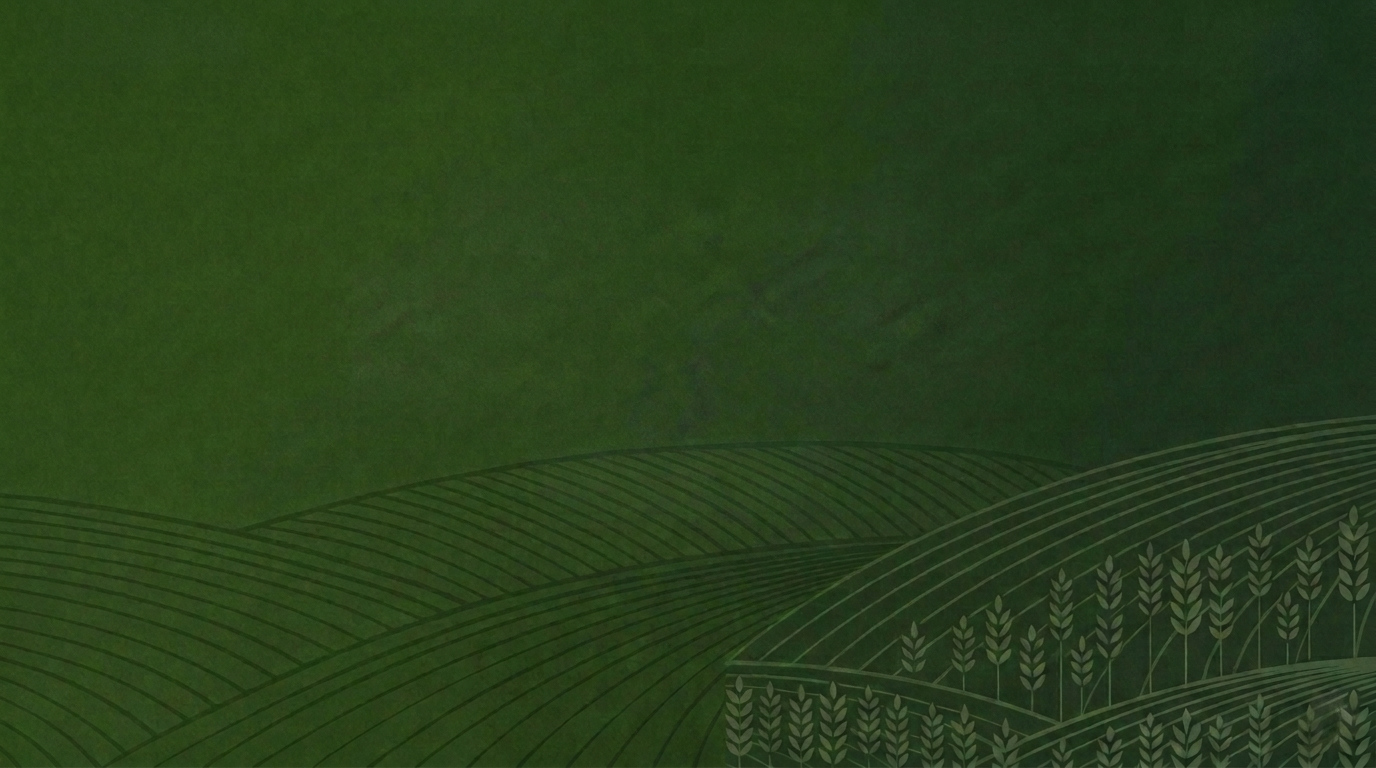
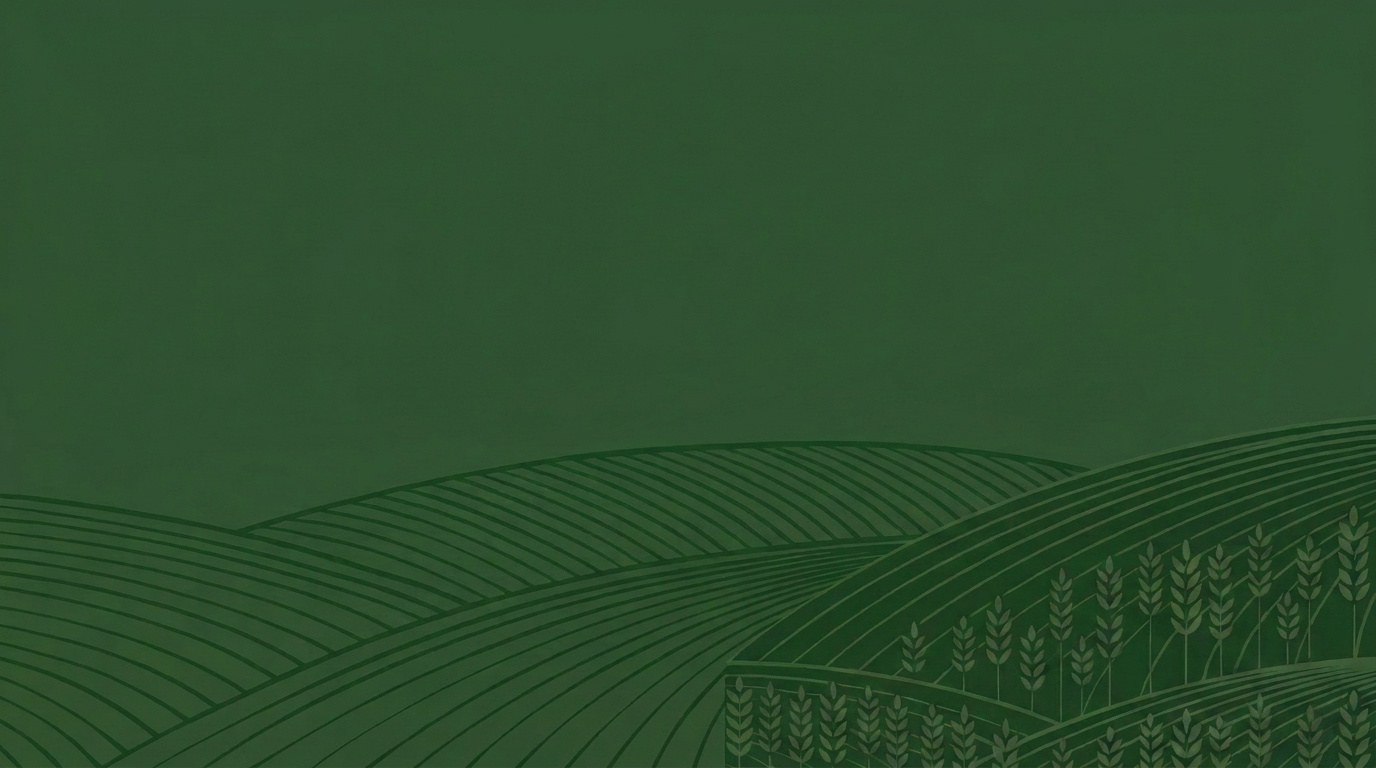
feat: replace container-based scroll with global hook and implement Framer Motion layout animations for the navbar

diff --git a/src/components/Temp.tsx b/src/components/Temp.tsx
@@ -37,16 +37,15 @@ export default function Landing() {
   const [sedeActiva, setSedeActiva] = useState(0);
 
   const [isScrolled, setIsScrolled] = useState(false);
-  const scrollRef = useRef<HTMLDivElement>(null);
   const serviciosRef = useRef<HTMLElement>(null);
 
-  const { scrollY } = useScroll({ container: scrollRef });
+  const { scrollY } = useScroll();
+
   useMotionValueEvent(scrollY, "change", (latest) => {
     setIsScrolled(latest > 50);
   });
 
   const { scrollYProgress: srvProgress } = useScroll({
-    container: scrollRef,
     target: serviciosRef,
     offset: ["start center", "end center"]
   });
@@ -62,39 +61,75 @@ export default function Landing() {
   const heroOpacity = useTransform(scrollY, [0, 500], [1, 0.3]);
   const watermarkOpacity = useTransform(scrollY, [80, 350], [0, 0.12]);
 
-  return (
-    <div ref={scrollRef} className="bg-black text-white font-['Inter',system-ui,sans-serif] overflow-x-hidden">
+  // Transición unificada para todo el navbar
+  const navTransition = { duration: 0.6, ease: [0.22, 1, 0.36, 1] };
 
-      {/* ── NAVBAR ── */}
+  return (
+    <div className="bg-black text-white font-['Inter',system-ui,sans-serif] overflow-x-hidden">
+
+      {/* ── NAVBAR (100% Animado por Framer Motion) ── */}
       <motion.header
-        className={`fixed z-50 transition-all duration-500 ${isScrolled
-          ? 'top-4 left-4 right-4 bg-black/20 backdrop-blur-md rounded-2xl shadow-glass'
-          : 'top-0 left-0 right-0 bg-transparent rounded-none'
-          }`}
-        initial={{ y: -80 }}
-        animate={{ y: 0 }}
-        transition={{ duration: 0.6, ease: [0.22, 1, 0.36, 1] }}
+        className="fixed z-[100] left-0 right-0 mx-auto border"
+        initial={{ y: -80, top: 16, width: "90%", maxWidth: "1152px", borderRadius: "40px", backgroundColor: "rgba(0,0,0,0)", borderColor: "rgba(255,255,255,0)", backdropFilter: "blur(0px)" }}
+        animate={{ 
+          y: 0,
+          top: 16,
+          width: "90%",
+          maxWidth: "1152px",
+          backgroundColor: isScrolled ? "rgba(255, 255, 255, 0.1)" : "rgba(0, 0, 0, 0)",
+          borderColor: isScrolled ? "rgba(255, 255, 255, 0.2)" : "rgba(255, 255, 255, 0)",
+          borderRadius: "40px",
+          backdropFilter: isScrolled ? "blur(24px)" : "blur(0px)",
+          boxShadow: isScrolled ? "0 25px 50px -12px rgba(0, 0, 0, 0.25)" : "none"
+        }}
+        transition={navTransition}
       >
-        <div className={`mx-auto flex items-center justify-between transition-all duration-500 ${isScrolled ? 'max-w-7xl px-6 h-16' : 'w-full px-8 h-20'}`}>
-          <a href="#inicio" className="flex-shrink-0">
-            <img src="/logo-blanco.png" alt="Roma" className="w-28 h-auto brightness-0 invert" />
-          </a>
-          <nav className="hidden md:flex items-center gap-8">
+        <motion.div 
+          layout
+          className="flex items-center justify-between w-full"
+          animate={{
+            paddingLeft: isScrolled ? "2rem" : "3rem",
+            paddingRight: isScrolled ? "2rem" : "3rem",
+            height: isScrolled ? "4rem" : "5.5rem"
+          }}
+          transition={navTransition}
+        >
+          {/* Logo */}
+          <motion.a layout href="#inicio" className="flex-shrink-0">
+            <motion.img
+              src="/logo-blanco.png"
+              alt="Roma"
+              className="h-auto"
+              animate={{ width: isScrolled ? "6rem" : "7rem" }} /* w-24 vs w-28 */
+              transition={navTransition}
+            />
+          </motion.a>
+
+          {/* Links */}
+          <motion.nav layout className="hidden md:flex items-center gap-8">
             {[['#inicio', 'Inicio'], ['#servicios', 'Servicios'], ['#ubicaciones', 'Sedes'], ['#equipo', 'Equipo']].map(([href, label]) => (
-              <a key={href} href={href} className="text-sm font-medium text-white/80 hover:text-white transition-colors relative after:absolute after:left-0 after:-bottom-1 after:h-px after:w-0 after:bg-white after:transition-all hover:after:w-full">{label}</a>
+              <a key={href} href={href} className="text-sm font-medium text-white/80 hover:text-white transition-colors relative after:absolute after:left-0 after:-bottom-1 after:h-px after:w-0 after:bg-white after:transition-all hover:after:w-full">
+                {label}
+              </a>
             ))}
-          </nav>
-          <div className="hidden md:block">
+          </motion.nav>
+
+          {/* Botón CTA */}
+          <motion.div layout className="hidden md:block">
             <Link to="/propiedades" className="bg-roma-olive text-white px-6 py-2.5 rounded-full text-sm font-bold hover:bg-roma-olive/90 hover:shadow-float transition-all duration-300 hover:scale-[1.03]">
               Ver Propiedades
             </Link>
-          </div>
-          <button onClick={() => setMobileOpen(!mobileOpen)} className="md:hidden text-white p-2">
+          </motion.div>
+
+          {/* Toggle Móvil */}
+          <motion.button layout onClick={() => setMobileOpen(!mobileOpen)} className="md:hidden text-white p-2">
             <i className={mobileOpen ? "ph ph-x text-2xl" : "ph ph-list text-2xl"} />
-          </button>
-        </div>
+          </motion.button>
+        </motion.div>
+
+        {/* Desplegable Móvil */}
         {mobileOpen && (
-          <motion.div initial={{ opacity: 0, y: -10 }} animate={{ opacity: 1, y: 0 }} className="md:hidden mt-2 bg-black/40 backdrop-blur-xl border-t border-white/10 p-6 flex flex-col items-center gap-4 rounded-b-2xl shadow-glass-lg">
+          <motion.div initial={{ opacity: 0, y: -10 }} animate={{ opacity: 1, y: 0 }} className="md:hidden bg-black/40 backdrop-blur-xl border-t border-white/10 p-6 flex flex-col items-center gap-4 rounded-b-2xl shadow-glass-lg absolute left-0 right-0 top-full mt-2 w-[90%] mx-auto">
             {[['#inicio', 'Inicio'], ['#servicios', 'Servicios'], ['#ubicaciones', 'Sedes'], ['#equipo', 'Equipo']].map(([href, label]) => (
               <a key={href} href={href} onClick={() => setMobileOpen(false)} className="text-white/80 hover:text-white font-medium text-base">{label}</a>
             ))}
@@ -170,7 +205,7 @@ export default function Landing() {
       >
 
         {/* ═══ SERVICIOS ═══ */}
-        <section id="servicios" className="relative z-10 min-h-screen pt-40 pb-40 px-6 flex flex-col justify-center">
+        <section ref={serviciosRef} id="servicios" className="relative z-10 min-h-screen pt-40 pb-40 px-6 flex flex-col justify-center">
           <motion.div className="relative z-10 max-w-7xl mx-auto w-full" initial="hidden" whileInView="visible" viewport={{ once: true, margin: "-50px" }} variants={stagger}>
             <div className="flex flex-col lg:flex-row gap-12 items-center">
 
@@ -190,9 +225,7 @@ export default function Landing() {
 
               {/* Panel Derecho: Timeline estático (40%) */}
               <motion.div variants={fadeRight} className="w-full lg:w-[40%] relative py-8 pl-14">
-                {/* Track base */}
                 <div className="absolute left-4 top-[40px] bottom-[40px] w-[2px] bg-white/10 hidden lg:block rounded-full" />
-                {/* Línea progreso atada al índice activo */}
                 <div
                   className="absolute left-4 top-[40px] w-[2px] bg-roma-leaf hidden lg:block rounded-full transition-all duration-500"
                   style={{ height: `calc(${(activeService / (SERVICIOS.length - 1)) * 100}%)` }}
@@ -203,15 +236,12 @@ export default function Landing() {
                     const isActive = idx === activeService;
                     return (
                       <div key={idx} onMouseEnter={() => setActiveService(idx)} onClick={() => setActiveService(idx)} className="group flex items-center gap-5 cursor-pointer py-5 relative">
-                        {/* Punto en la línea */}
                         <div className="absolute left-[-26px] hidden lg:flex w-4 h-4 rounded-full items-center justify-center -translate-x-1/2">
                           <div className={`rounded-full transition-all duration-300 ${isActive ? 'w-4 h-4 bg-roma-leaf shadow-[0_0_14px_rgba(91,138,97,0.9)]' : 'w-2.5 h-2.5 bg-white/20 border border-white/20'}`} />
                         </div>
-                        {/* Icono */}
                         <div className="w-8 h-8 flex items-center justify-center flex-shrink-0">
                           <srv.icon size={18} className={`transition-colors duration-300 ${isActive ? 'text-roma-leaf' : 'text-white/30 group-hover:text-white/60'}`} />
                         </div>
-                        {/* Label */}
                         <div className={`flex-1 border-b pb-5 text-2xl md:text-3xl font-light tracking-tight transition-all duration-300 ${isActive ? 'text-white border-roma-leaf/30' : 'text-white/50 border-white/5 group-hover:text-white/80'}`}>
                           {srv.title}
                         </div>
